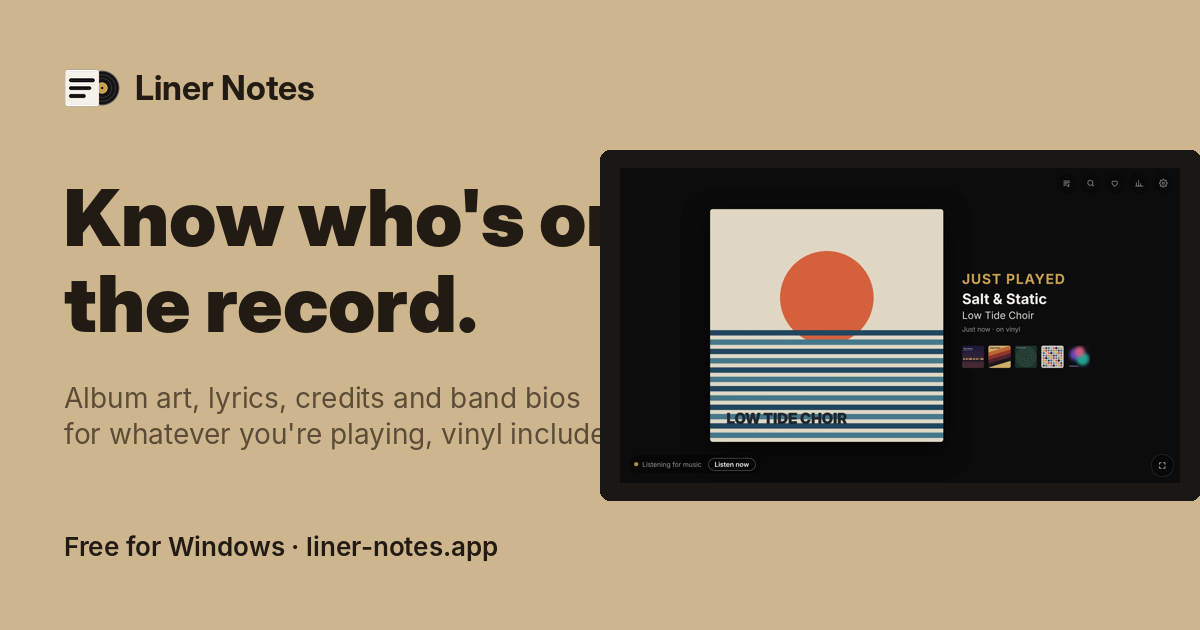
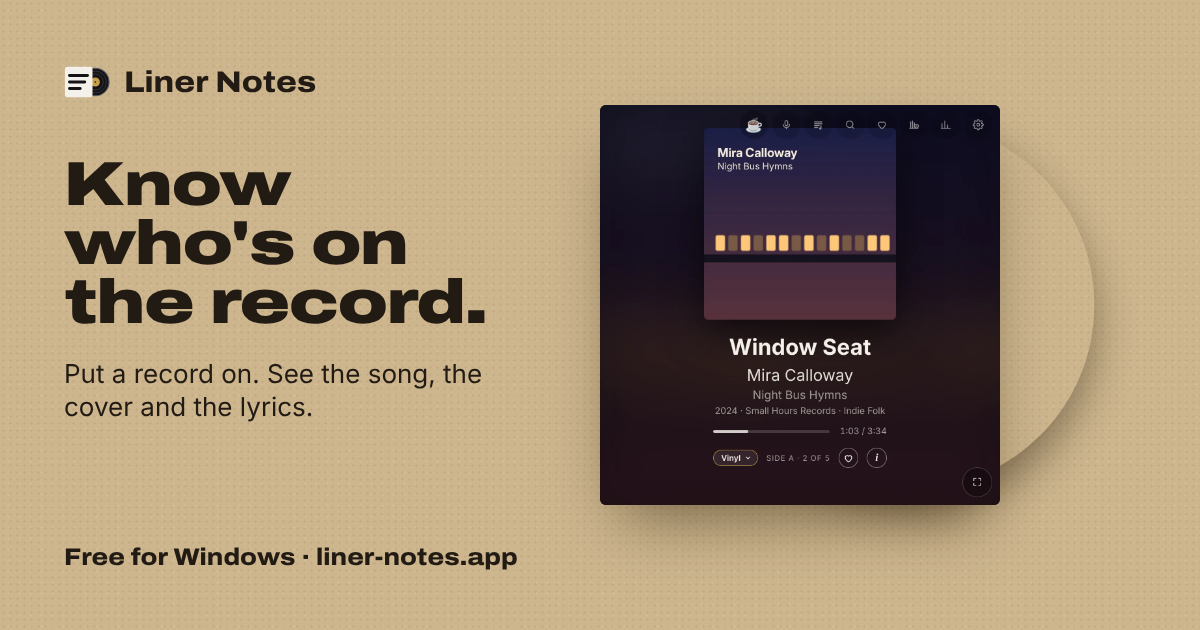
Website: new link preview image
Claude-Session: https://claude.ai/code/session_01Nfz65jvHJe2ZBysjpKiTxt

diff --git a/site/index.html b/site/index.html
@@ -7,7 +7,9 @@
 <meta name="description" content="A free Windows app that hears the record on your turntable, names every song, and shows the cover, lyrics and credits on a screen next to you. It follows the album side by side and tells you when to flip.">
 <meta property="og:title" content="Liner Notes">
 <meta property="og:description" content="Know who's on the record. Put a record on and Liner Notes shows the song, the cover and the lyrics, track by track, side by side.">
-<meta property="og:image" content="https://liner-notes.app/img/og.png">
+<meta property="og:image" content="https://liner-notes.app/img/og.png?v=2">
+<meta property="og:image:width" content="1200">
+<meta property="og:image:height" content="630">
 <meta property="og:url" content="https://liner-notes.app/">
 <meta name="twitter:card" content="summary_large_image">
 <link rel="icon" href="/img/icon.svg" type="image/svg+xml">
